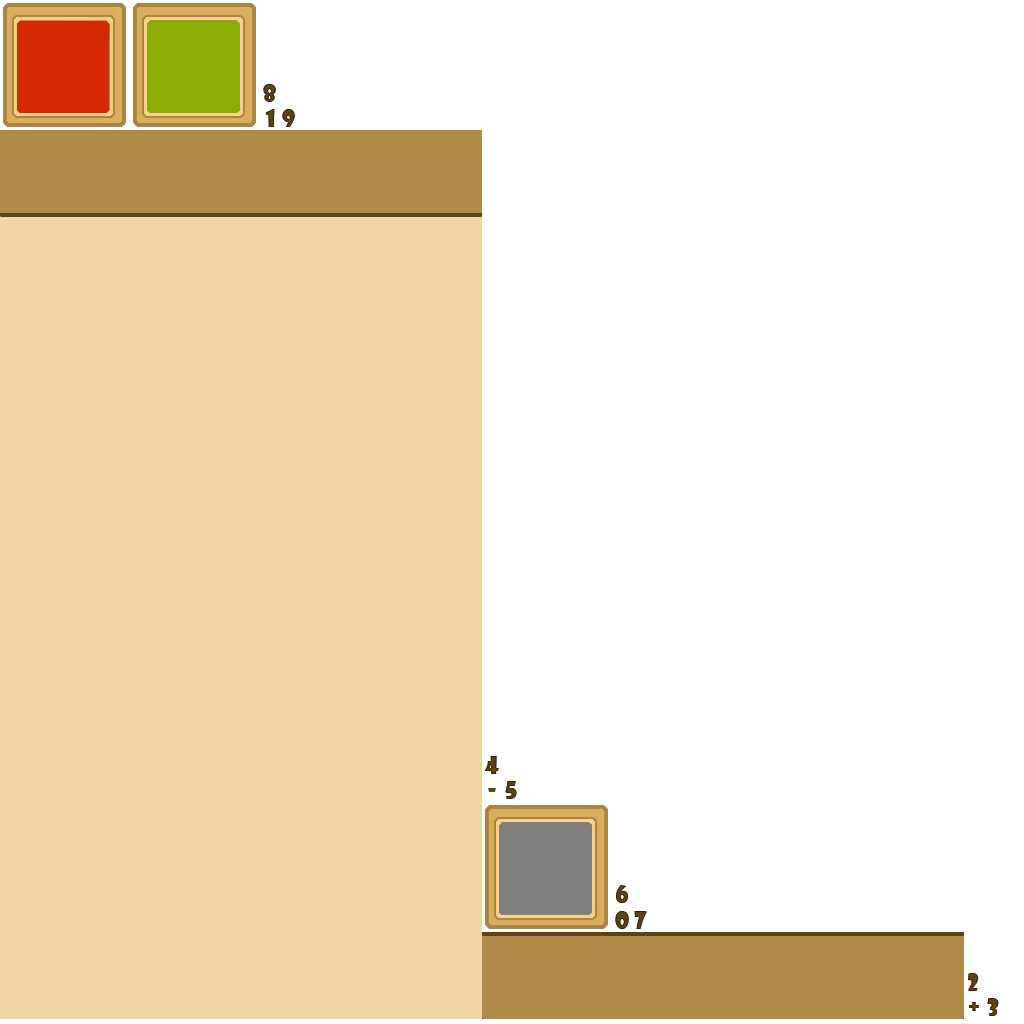
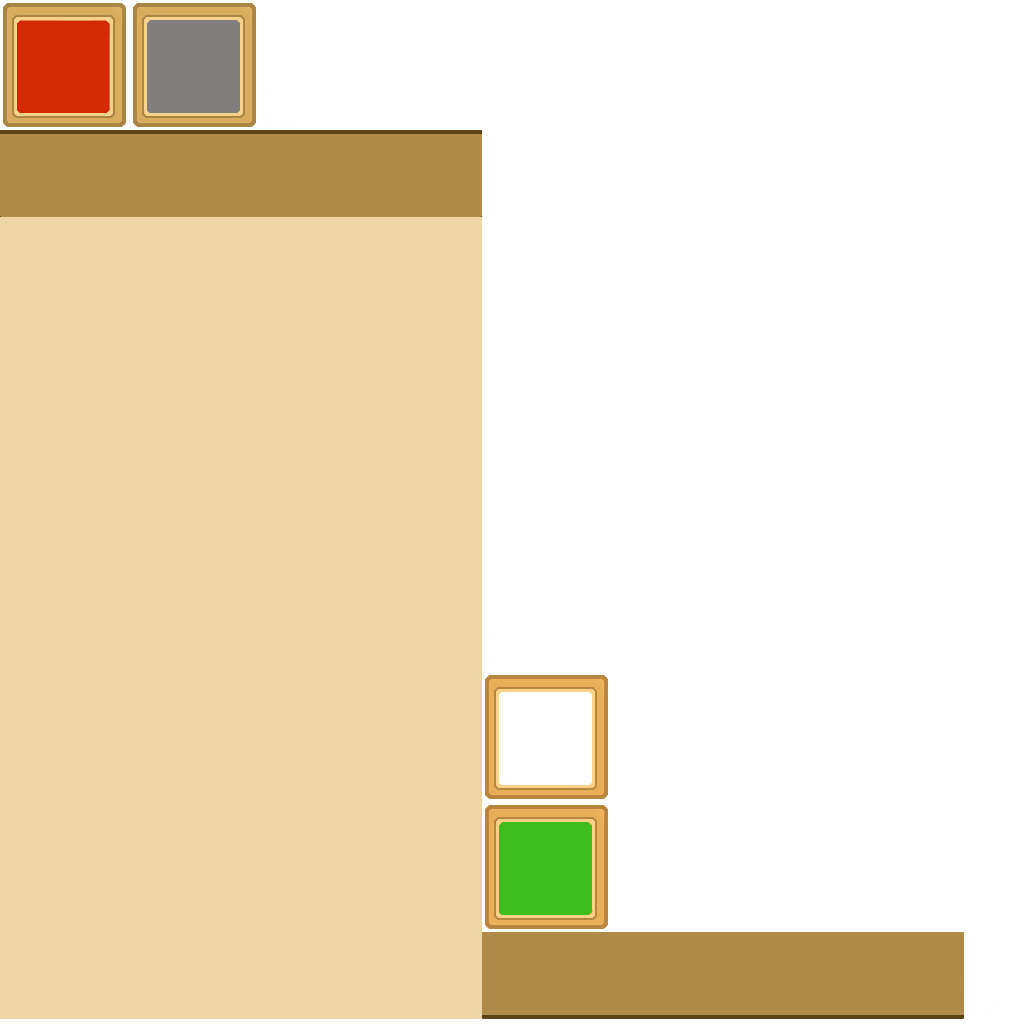
new unit images and colors, levels complexity changed

diff --git a/core/src/org/dragberry/ozo/game/render/GuiRenderer.java b/core/src/org/dragberry/ozo/game/render/GuiRenderer.java
@@ -32,6 +32,16 @@ public class GuiRenderer implements Renderer {
 	private int uiBottomPanelWidth;
 	private int uiBottomPanelHeight;
 	private float uiBottomPanelY;
+
+	private TextureRegion frame = Assets.instance.level.unit.frame;
+	private TextureRegion body = Assets.instance.level.unit.body;
+	private float stateOffset;
+	private float stateY;
+	private float stateNeutralX;
+	private float stateNegativeX;
+	private float statePositiveX;
+	private int stateFrameWidth;
+	private int stateFrameHeight;
 	
 	public GuiRenderer() {
 		init();
@@ -49,6 +59,14 @@ public class GuiRenderer implements Renderer {
 		uiBottomPanelWidth = Assets.instance.level.uiTop.getRegionWidth();
 		uiBottomPanelHeight = Assets.instance.level.uiTop.getRegionHeight();
 		uiBottomPanelY =  camera.viewportHeight - uiBottomPanelHeight * UI_PANELS_SCALE;
+
+		stateOffset = frame.getRegionHeight();
+		stateY = camera.viewportHeight - stateOffset;
+		stateNeutralX = camera.viewportWidth / 2 - frame.getRegionWidth() / 2;
+		stateNegativeX = camera.viewportWidth / 2 + frame.getRegionWidth() / 2;
+		statePositiveX = camera.viewportWidth / 2 - frame.getRegionWidth() * 1.5f;
+		stateFrameWidth = frame.getRegionWidth();
+		stateFrameHeight = frame.getRegionHeight();
 	}
 	
 	@Override
@@ -109,23 +127,34 @@ public class GuiRenderer implements Renderer {
 	}
 	
 	private void renderState(SpriteBatch batch) {
-		float offset = Assets.instance.level.unit.neutral.getRegionHeight();
-		TextureRegion ball;
+		// Blue frame
+		batch.setColor(Constants.NEUTRAL);
+		batch.draw(body.getTexture(),
+				stateNeutralX, stateY,
+				stateFrameWidth / 2, stateFrameHeight / 2,
+				stateFrameWidth, stateFrameHeight,
+				0.8f, 0.8f,
+				0,
+				body.getRegionX(), body.getRegionY(),
+				body.getRegionWidth(), body.getRegionHeight(),
+				false, true);
 
-		// Blue ball
-		ball = Assets.instance.level.unit.neutral;
-		batch.draw(ball.getTexture(),
-				camera.viewportWidth / 2 - ball.getRegionWidth() / 2, camera.viewportHeight - offset,
+		batch.setColor(Color.WHITE);
+		batch.draw(frame.getTexture(),
+				stateNeutralX, stateY,
 				0, 0,
-				ball.getRegionWidth(), ball.getRegionHeight(),
+				stateFrameWidth, stateFrameHeight,
 				1, 1,
 				0,
-				ball.getRegionX(), ball.getRegionY(),
-				ball.getRegionWidth(), ball.getRegionHeight(),
+				frame.getRegionX(), frame.getRegionY(),
+				stateFrameWidth, stateFrameHeight,
 				false, true);
+
 		float posX = camera.viewportWidth / 2;
-		float upY = camera.viewportHeight - offset + ball.getRegionHeight() / 2 - 0.4f * Assets.instance.level.digits.minus.getRegionHeight();
-		float downY = camera.viewportHeight - offset + ball.getRegionHeight() / 2 + DIGIT_STATE_SCALE * Assets.instance.level.digits.minus.getRegionHeight();
+		float upY = camera.viewportHeight - stateOffset + frame.getRegionHeight() / 2 - 0.4f * Assets.instance.level.digits.minus.getRegionHeight();
+		float downY = camera.viewportHeight - stateOffset + frame.getRegionHeight() / 2 + DIGIT_STATE_SCALE * Assets.instance.level.digits.minus.getRegionHeight();
+
+		batch.setColor(Constants.NEUTRAL_TXT);
 		DigitUtil.draw(batch, GameController.instance.level.zeroCountDigits,
 				posX, upY,
 				DIGIT_STATE_SCALE, DIGIT_STATE_SCALE,
@@ -136,20 +165,35 @@ public class GuiRenderer implements Renderer {
 				DIGIT_STATE_SCALE, DIGIT_STATE_SCALE,
 				0,
 				false, true);
+		batch.setColor(Color.WHITE);
 		
 
-		// Green ball
-		ball = Assets.instance.level.unit.positive;
-		batch.draw(ball.getTexture(),
-				camera.viewportWidth / 2 - ball.getRegionWidth() * 1.5f, camera.viewportHeight - offset,
+		// Green frame
+		batch.setColor(Constants.POSITIVE);
+		batch.draw(body.getTexture(),
+				statePositiveX, stateY,
+				stateFrameWidth / 2, stateFrameHeight / 2,
+				stateFrameWidth, stateFrameHeight,
+				0.8f, 0.8f,
+				0,
+				body.getRegionX(), body.getRegionY(),
+				body.getRegionWidth(), body.getRegionHeight(),
+				false, true);
+
+		batch.setColor(Color.WHITE);
+
+		batch.draw(frame.getTexture(),
+				statePositiveX, stateY,
 				0, 0,
-				ball.getRegionWidth(), ball.getRegionHeight(),
+				stateFrameWidth, stateFrameHeight,
 				1, 1,
 				0,
-				ball.getRegionX(), ball.getRegionY(),
-				ball.getRegionWidth(), ball.getRegionHeight(),
+				frame.getRegionX(), frame.getRegionY(),
+				stateFrameWidth, stateFrameHeight,
 				false, true);
-		posX = camera.viewportWidth / 2 - ball.getRegionWidth();
+		posX = camera.viewportWidth / 2 - frame.getRegionWidth();
+
+		batch.setColor(Constants.POSITIVE_TXT);
 		DigitUtil.draw(batch, GameController.instance.level.posCountDigits,
 				posX, upY,
 				DIGIT_STATE_SCALE, DIGIT_STATE_SCALE,
@@ -160,21 +204,35 @@ public class GuiRenderer implements Renderer {
 				DIGIT_STATE_SCALE, DIGIT_STATE_SCALE,
 				0,
 				false, true);
+		batch.setColor(Color.WHITE);
 
-		// Red ball
-		ball = Assets.instance.level.unit.negative;
-		batch.draw(ball.getTexture(),
-				camera.viewportWidth / 2 + ball.getRegionWidth() / 2, camera.viewportHeight - offset,
+		// Red frame
+		batch.setColor(Constants.NEGATIVE);
+		batch.draw(body.getTexture(),
+				stateNegativeX, stateY,
+				stateFrameWidth / 2, stateFrameHeight / 2,
+				stateFrameWidth, stateFrameHeight,
+				0.8f, 0.8f,
+				0,
+				body.getRegionX(), body.getRegionY(),
+				body.getRegionWidth(), body.getRegionHeight(),
+				false, true);
+
+		batch.setColor(Color.WHITE);
+
+		batch.draw(frame.getTexture(),
+				stateNegativeX, stateY,
 				0, 0,
-				ball.getRegionWidth(), ball.getRegionHeight(),
+				stateFrameWidth, stateFrameHeight,
 				1, 1,
 				0,
-				ball.getRegionX(), ball.getRegionY(),
-				ball.getRegionWidth(), ball.getRegionHeight(),
+				frame.getRegionX(), frame.getRegionY(),
+				stateFrameWidth, stateFrameHeight,
 				false, true);
 		
-		posX = camera.viewportWidth / 2 + ball.getRegionWidth();
-		
+		posX = camera.viewportWidth / 2 + frame.getRegionWidth();
+
+		batch.setColor(Constants.NEGATIVE_TXT);
 		DigitUtil.draw(batch, GameController.instance.level.negCountDigits,
 				posX, upY,
 				DIGIT_STATE_SCALE, DIGIT_STATE_SCALE,
@@ -185,6 +243,7 @@ public class GuiRenderer implements Renderer {
 				DIGIT_STATE_SCALE, DIGIT_STATE_SCALE,
 				0,
 				false, true);
+		batch.setColor(Color.WHITE);
 	}
 	
 	@Override

diff --git a/core/src/org/dragberry/ozo/game/objects/AbstractUnit.java b/core/src/org/dragberry/ozo/game/objects/AbstractUnit.java
@@ -1,13 +1,10 @@
 package org.dragberry.ozo.game.objects;
 
 import org.dragberry.ozo.game.Assets;
-import org.dragberry.ozo.game.DirectedGame;
 import org.dragberry.ozo.game.util.Constants;
 import org.dragberry.ozo.game.util.DigitUtil;
 
 import com.badlogic.gdx.graphics.Color;
-import com.badlogic.gdx.graphics.Pixmap;
-import com.badlogic.gdx.graphics.Texture;
 import com.badlogic.gdx.graphics.g2d.SpriteBatch;
 import com.badlogic.gdx.graphics.g2d.TextureRegion;
 import com.badlogic.gdx.utils.Array;
@@ -20,8 +17,6 @@ public abstract class AbstractUnit extends AbstractGameObject implements Seriali
 	protected transient boolean flipY;
 	protected transient Array<TextureRegion> valueDigits = new Array<TextureRegion>(4);
 
-	private Pixmap canvas = new Pixmap((int) Constants.UNIT_SIZE, (int) Constants.UNIT_SIZE, Pixmap.Format.RGBA8888);
-	private Texture text = new Texture(canvas);
 	public AbstractUnit(int value) {
 		this.value = value;
 		DigitUtil.resolveDigits(value, valueDigits);
@@ -49,19 +44,26 @@ public abstract class AbstractUnit extends AbstractGameObject implements Seriali
 	public void render(SpriteBatch batch) {
 		Sign sign = value < 0 ? Sign.MINUS : value == 0 ? Sign.ZERO : Sign.PLUS;
 
-		if (sign == Sign.MINUS) {
-			DirectedGame.game.blackoutShader.pedantic = false;
-			batch.setShader(DirectedGame.game.blackoutShader);
+		batch.setColor(sign.color);
+		batch.draw(Assets.instance.level.unit.body.getTexture(),
+				position.x, position.y,
+				origin.x, origin.y,
+				dimension.x, dimension.y,
+				scale.x * 0.8f, scale.y * 0.8f,
+				rotation,
+				Assets.instance.level.unit.body.getRegionX(), Assets.instance.level.unit.body.getRegionY(),
+				Assets.instance.level.unit.body.getRegionWidth(), Assets.instance.level.unit.body.getRegionHeight(),
+				false, flipY);
 
-		}
-		batch.draw(text,
+		batch.setColor(Color.WHITE);
+		batch.draw(Assets.instance.level.unit.frame.getTexture(),
 				position.x, position.y,
 				origin.x, origin.y,
 				dimension.x, dimension.y,
 				scale.x, scale.y,
 				rotation,
-				0, 0,
-				text.getWidth(), text.getHeight(),
+				Assets.instance.level.unit.frame.getRegionX(), Assets.instance.level.unit.frame.getRegionY(),
+				Assets.instance.level.unit.frame.getRegionWidth(), Assets.instance.level.unit.frame.getRegionHeight(),
 				false, flipY);
 
 
@@ -82,30 +84,32 @@ public abstract class AbstractUnit extends AbstractGameObject implements Seriali
 				zoomFactor = 0.4f;
 		}
 
-
+		batch.setColor(sign.numColor);
 		DigitUtil.draw(batch, valueDigits,
 				position.x + dimension.x / 2, position.y + dimension.y / 2,
 				scale.x * zoomFactor ,
 				scale.y * zoomFactor,
 				rotation,
 				false, flipY);
-		batch.setShader(null);
+		batch.setColor(Color.WHITE);
 
 
 	}
 	
 	protected enum Sign {
-		MINUS(Assets.instance.level.unit.negative, Constants.NEGATIVE, "-"),
-		ZERO(Assets.instance.level.unit.neutral, Constants.NEUTRAL, ""),
-		PLUS(Assets.instance.level.unit.positive, Constants.POSITIVE, "+");
+		MINUS(Assets.instance.level.unit.negative, Constants.NEGATIVE, Constants.NEGATIVE_TXT, "-"),
+		ZERO(Assets.instance.level.unit.neutral, Constants.NEUTRAL, Constants.NEUTRAL_TXT, ""),
+		PLUS(Assets.instance.level.unit.positive, Constants.POSITIVE, Constants.POSITIVE_TXT, "+");
 
 		public TextureRegion regBall;
 		public Color color;
+		public Color numColor;
 		public String sign;
 		
-		Sign(TextureRegion regBall, Color color, String sign) {
+		Sign(TextureRegion regBall, Color color, Color numColor, String sign) {
 			this.regBall = regBall;
 			this.color = color;
+			this.numColor = numColor;
 			this.sign = sign;
 		}
 	}

diff --git a/core/src/org/dragberry/ozo/game/level/LevelProvider.java b/core/src/org/dragberry/ozo/game/level/LevelProvider.java
@@ -45,18 +45,18 @@ public class LevelProvider {
         freeplayLevel = new FreeplayReachTheGoalLevelSettings(FreeplayLevel.class, Levels.L999_FREEPLAY, 0.8f, 10);
 
 //		levels.add(new ReachTheGoalLevelSettings(L000_TEST, -10, 2, JustReachGoal.Operator.MORE));
-        levels.add(new ReachTheGoalLevelSettings(L001_LETS_START, -10, 10, JustReachGoal.Operator.MORE));
-        levels.add(new ReachTheGoalLevelSettings(L002_LITTLE_BIT_HARDER, -15, 20, JustReachGoal.Operator.MORE));
-        levels.add(new ReachTheGoalLevelSettings(L003_NEED_MORE, -20, 30, JustReachGoal.Operator.MORE));
+        levels.add(new ReachTheGoalLevelSettings(L001_LETS_START, -12, 6, JustReachGoal.Operator.MORE));
+        levels.add(new ReachTheGoalLevelSettings(L002_LITTLE_BIT_HARDER, -10, 10, JustReachGoal.Operator.MORE));
+        levels.add(new ReachTheGoalLevelSettings(L003_NEED_MORE, -15, 20, JustReachGoal.Operator.MORE));
         levels.add(new ReachMultiGoalLevelSettings(L004_DOUBLE_5, -10, 5, 5));
         levels.add(new ReachTheGoalLevelSettings(MushroomRainLevel.class, L005_MUSHROOM_RAIN ,-10, 25));
-        levels.add(new NoAnnihilationLevelSettings(L006_SAVE_US, 10, 20));
+        levels.add(new NoAnnihilationLevelSettings(L006_SAVE_US, 15, 15));
         levels.add(new ReachMultiGoalLevelSettings(L007_ROULETTE, -7, 7, 7, 7));
-        levels.add(new ReachTheGoalLevelSettings(QueueLevel.class, L008_QUEUES, -15, 50));
-        levels.add(new ReachMultiGoalLevelSettings(L009_STRAIGHT_FLASH, -15, 6, 7, 8, 9, 10));
-        levels.add(new ReachTheGoalLevelSettings(ChessboardLevel.class, L010_CHESSBOARD, -20, 50));
+        levels.add(new ReachTheGoalLevelSettings(QueueLevel.class, L008_QUEUES, -25, 50));
+        levels.add(new ReachMultiGoalLevelSettings(L009_STRAIGHT_FLASH, -25, 6, 7, 8, 9, 10));
+        levels.add(new ReachTheGoalLevelSettings(ChessboardLevel.class, L010_CHESSBOARD, -33, 50));
         levels.add(new ReachTheGoalLevelSettings(MushroomRainLevel.class, L011_MUSHROOM_SHOWER, -25, 75));
-        levels.add(new ReachTheGoalLevelSettings(WavesLevel.class, L012_WAVES, -15, 50));
+        levels.add(new ReachTheGoalLevelSettings(WavesLevel.class, L012_WAVES, -25, 50));
         levels.add(new ReachMultiGoalLevelSettings(L013_CASINO_ROYALE, -99, 50, 50, 50));
         levels.add(new ReachTheGoalLevelSettings(QueueLevel.class, L014_REGULARITY, -33, 99));
         levels.add(new NoAnnihilationLevelSettings(L015_UNSAFE_PLACE, 9, 99));

diff --git a/core/src/org/dragberry/ozo/screen/MainMenuScreen.java b/core/src/org/dragberry/ozo/screen/MainMenuScreen.java
@@ -14,7 +14,6 @@ import com.badlogic.gdx.utils.viewport.ScalingViewport;
 import org.dragberry.ozo.common.level.Levels;
 import org.dragberry.ozo.game.*;
 import org.dragberry.ozo.game.util.Constants;
-import org.dragberry.ozo.screen.popup.NewUserPopup;
 import org.dragberry.ozo.screen.popup.RatingPopup;
 import org.dragberry.ozo.screen.popup.WrongVersionPopup;
 import org.dragberry.ozo.screen.transitions.ScreenTransitionFade;
@@ -87,7 +86,7 @@ public class MainMenuScreen extends AbstractGameScreen {
 		if (game.wrongAppVersion) {
 			DirectedGame.game.setPopup(DirectedGame.game.getScreen(WrongVersionPopup.class).init());
 		} else if (game.platform.getUser().isDefault() && game.platform.getHttpClient().isConnected()) {
-			DirectedGame.game.setPopup(DirectedGame.game.getScreen(NewUserPopup.class).init());
+//			DirectedGame.game.setPopup(DirectedGame.game.getScreen(NewUserPopup.class).init());
 		}
 
 	}
@@ -179,7 +178,7 @@ public class MainMenuScreen extends AbstractGameScreen {
 		if (DirectedGame.game.ratingPopupShowCounter != DirectedGame.RATING_POPUP_ALREADY_SHOWN
                 && DirectedGame.game.ratingPopupShowCounter++ % 2 == 0) {
             DirectedGame.game.setPopup(DirectedGame.game.getScreen(RatingPopup.class).init());
-        } else if(game.platform.getHttpClient().isConnected() && DirectedGame.game.adShowCounter++ % 4 == 0) {
+        } else if(game.platform.getHttpClient().isConnected() && DirectedGame.game.adShowCounter++ % 2 == 0) {
             game.platform.getAdsController().showInterstitialAd(new Runnable() {
                 @Override
                 public void run() {

diff --git a/core/src/org/dragberry/ozo/game/util/Constants.java b/core/src/org/dragberry/ozo/game/util/Constants.java
@@ -14,10 +14,10 @@ public interface Constants {
     String TEXTURE_ATLAS_SKIN = "skins/default/skin/uiskin.atlas";
     String SKIN = "skins/default/skin/uiskin.json";
 
-    Color BACKGROUND = new Color(0xCC / 255f, 0xCC / 255f,  0x9A / 255f, 1);
-    Color BACKGROUND_GAME = new Color(0xCC / 255f, 0xCC / 255f,  0x9A / 255f, 1);
+    Color BACKGROUND = new Color(0xCCCC9AFF);
+    Color BACKGROUND_GAME = new Color(0xCCCC9AFF);
 
-    Color FONT_BLOCK_1 = new Color(70/ 255f, 44/ 255f, 5/ 255f, 1);
+    Color FONT_BLOCK_1 = new Color(0x462C05FF);
 
     float VIEWPORT_WIDTH = 1280.0f;
     float VIEWPORT_GUI_WIDTH = 720.0f;
@@ -26,7 +26,10 @@ public interface Constants {
     float UNIT_MOTION_TIME = 0.3f;
     float UNIT_SPEED = UNIT_SIZE / UNIT_MOTION_TIME;
 
-    Color POSITIVE = Color.GREEN;
-    Color NEGATIVE = new Color(0xFF / 255f, 0x45 / 255f, 0x00 / 255, 1);
-    Color NEUTRAL = new Color(0x1E / 255f, 0x90 / 255f, 0xFF / 255, 1);
+    Color POSITIVE = new Color(0x3FBD1EFF);
+    Color POSITIVE_TXT = new Color(0x003200FF);
+    Color NEGATIVE = new Color(0xD52805FF);
+    Color NEGATIVE_TXT = new Color(0xFFDC10FF);
+    Color NEUTRAL = new Color(0x7B7B7BFF);
+    Color NEUTRAL_TXT = Color.DARK_GRAY;
 }

diff --git a/core/src/org/dragberry/ozo/game/Assets.java b/core/src/org/dragberry/ozo/game/Assets.java
@@ -113,11 +113,15 @@ public class Assets implements Disposable, AssetErrorListener {
 			public final AtlasRegion positive;
 			public final AtlasRegion neutral;
 			public final AtlasRegion negative;
+			public final AtlasRegion frame;
+			public final AtlasRegion body;
 
 			public AssetUnit(TextureAtlas atlas) {
 				neutral = atlas.findRegion("unit_neutral");
 				negative = atlas.findRegion("unit_neg");
 				positive = atlas.findRegion("unit_pos");
+				frame = atlas.findRegion("unit_frame");
+				body = atlas.findRegion("unit_body");
 			}
 		}
 
